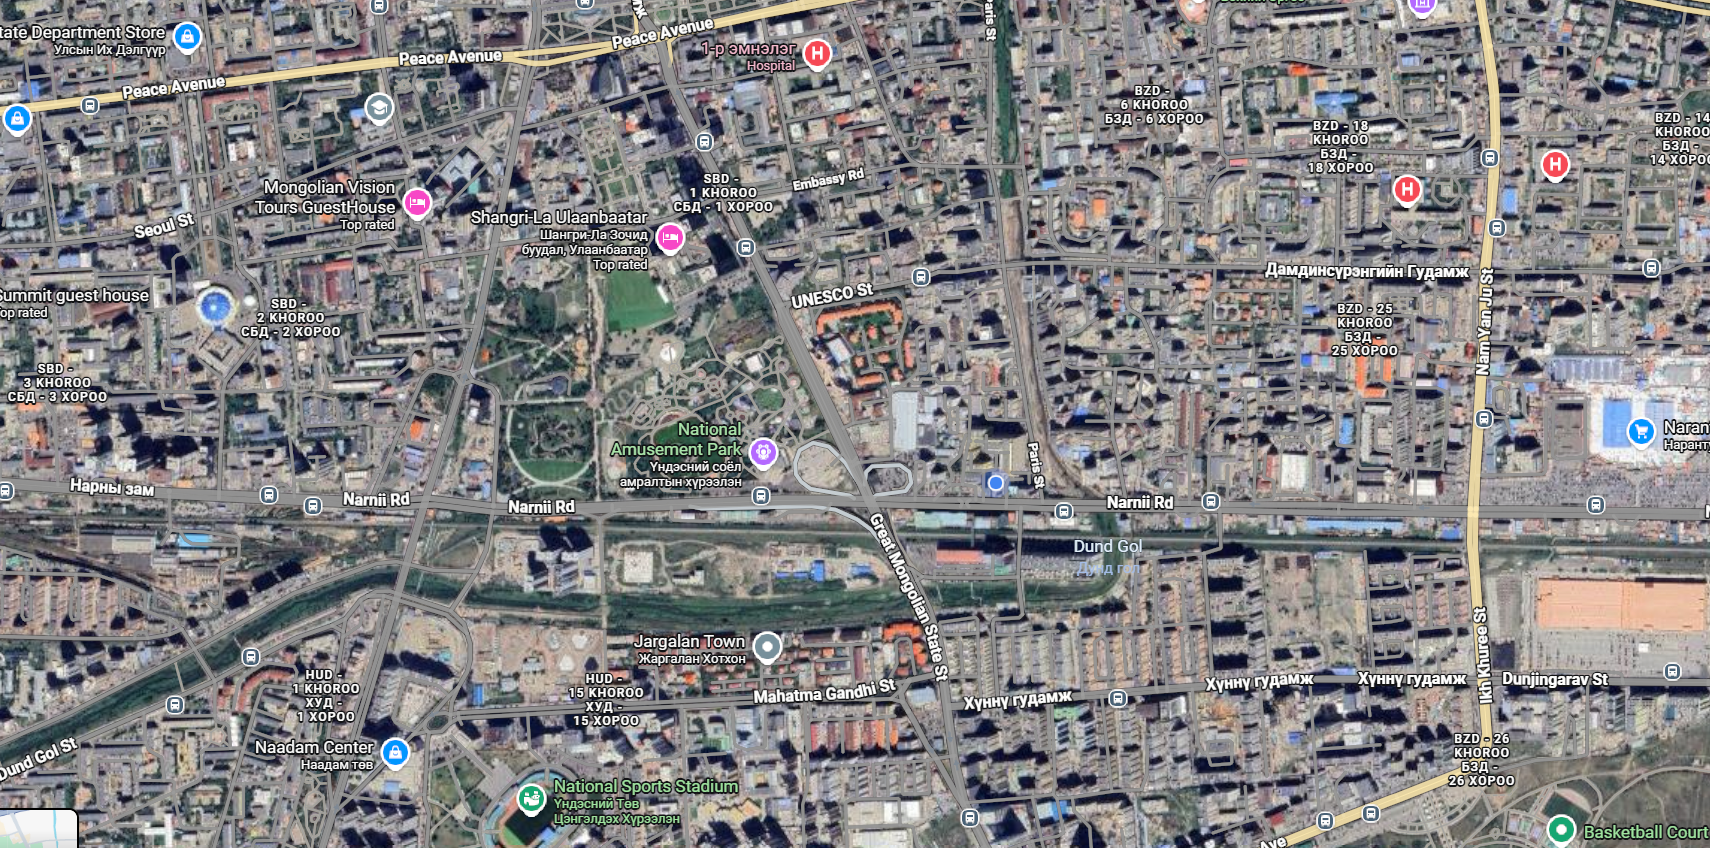
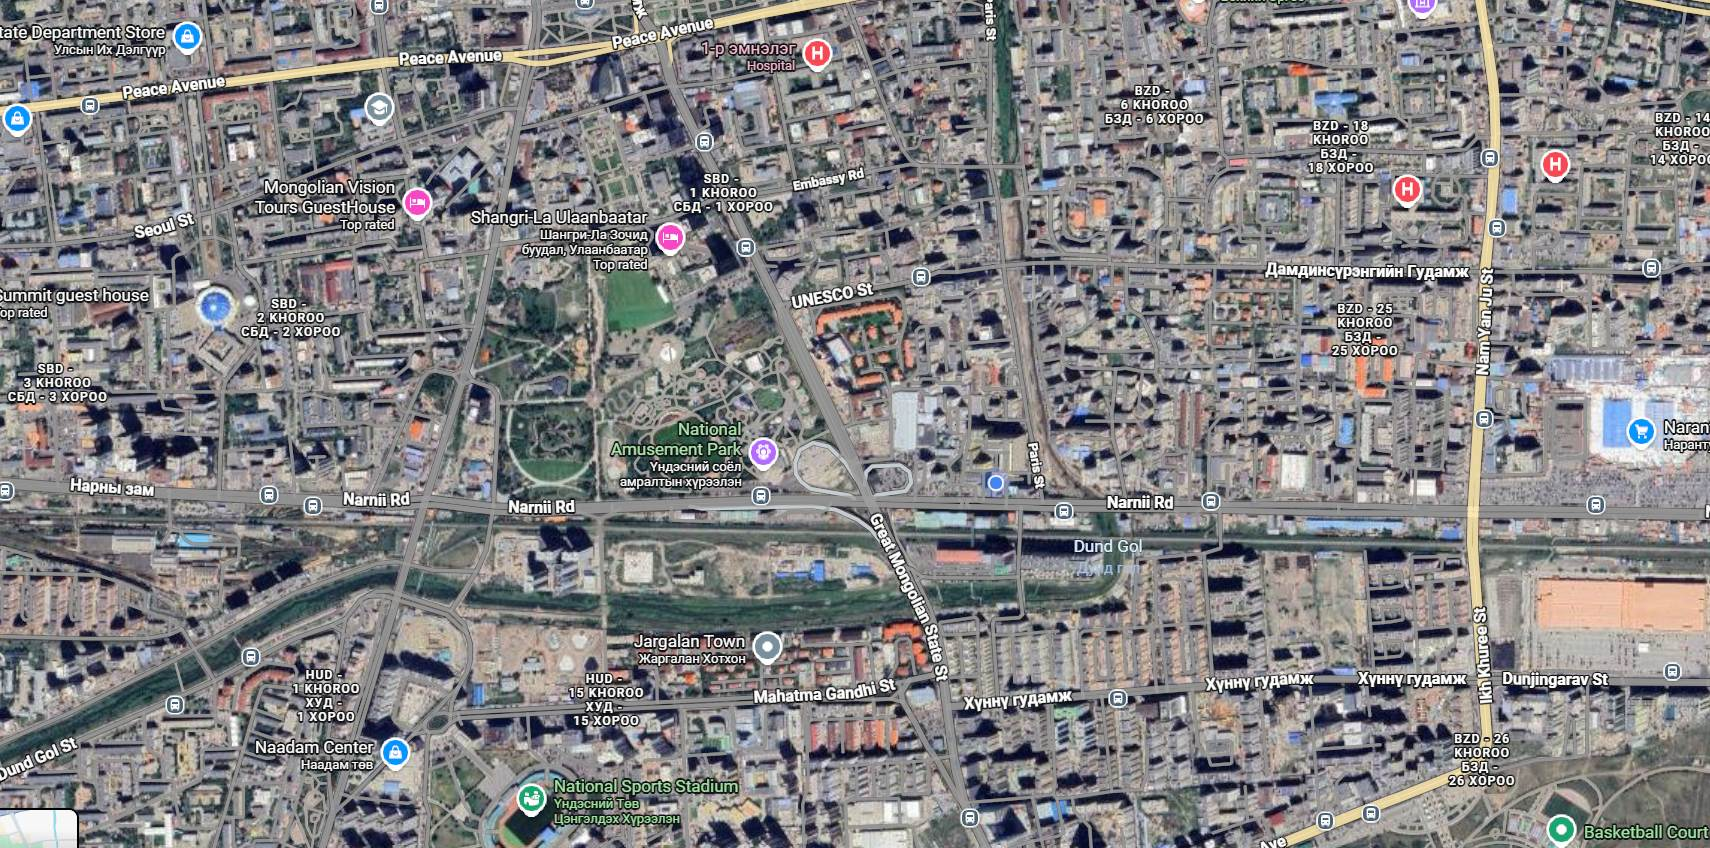
Polish responsive UI

diff --git a/app/globals.css b/app/globals.css
@@ -85,7 +85,8 @@ h1, h2, h3, h4 { font-family: var(--font-heading); }
     overflow-y: visible;
     align-items: flex-start !important;
     justify-content: flex-start !important;
-    padding-bottom: 80px; /* room for bottom nav + breathing space */
+    /* room for bottom nav + iOS home indicator + breathing space */
+    padding-bottom: calc(80px + env(safe-area-inset-bottom, 0px));
   }
   .panel-inner {
     height: auto !important;
@@ -394,10 +395,12 @@ h1, h2, h3, h4 { font-family: var(--font-heading); }
 @media (prefers-reduced-motion: reduce) { * { animation: none !important; } }
 
 /* ════════════════════════════════════════════════════════════════
-   MOBILE RESPONSIVE  ≤ 768px
-   All rules are INSIDE this block. Desktop (> 768px) is untouched.
+   MOBILE RESPONSIVE  ≤ 767px
+   All rules are INSIDE this block. Kept on the same 767px line as the
+   deck→scroll switch above and JS isMobile (< 768) so no width — e.g.
+   iPad portrait at exactly 768px — gets a mix of deck + mobile rules.
    ════════════════════════════════════════════════════════════════ */
-@media (max-width: 768px) {
+@media (max-width: 767px) {
 
   /* Prevent horizontal scroll on every page */
   html, body { overflow-x: hidden; }
@@ -409,37 +412,25 @@ h1, h2, h3, h4 { font-family: var(--font-heading); }
   .glow-orb { z-index: 0; }
   .panel-inner { position: relative; z-index: 1; }
 
-  /* ── HERO ── */
-  /* Both CTA buttons: always full-width stacked column */
-  .hero-btns { flex-direction: column !important; gap: 10px; }
-  .hero-btns > * { width: 100% !important; box-sizing: border-box; }
+  /* ── NAV ── */
+  /* In scroll mode content passes under the fixed header — give it a
+     backdrop so text doesn't collide with the logo/hamburger. Deck mode
+     (≥768px) never scrolls under the nav, so it stays transparent there. */
+  .app-nav {
+    background: linear-gradient(180deg, rgba(5,5,16,0.92) 0%, rgba(5,5,16,0.78) 100%);
+    backdrop-filter: blur(18px);
+    -webkit-backdrop-filter: blur(18px);
+    border-bottom: 1px solid rgba(111,99,255,0.12);
+  }
 
   /* ── TEAM / EXPERIENCE ── */
   /* Hero photo card: stretch to full container width */
   .team-hero-card { max-width: 100% !important; }
 
-  /* ── VISION / VALUES ── */
-  /* Value cards (01/02/03): the horizontal swipe carousel let cards 02/03
-     run off the right edge, so force a full-width vertical stack instead. */
-  .values-scroll {
-    flex-direction: column !important;
-    overflow-x: visible !important;
-    scroll-snap-type: none !important;
-    margin-left: 0 !important;
-    margin-right: 0 !important;
-    padding-left: 0 !important;
-    padding-right: 0 !important;
-  }
-  .values-scroll .values-card {
-    width: 100% !important;
-    scroll-snap-align: none !important;
-  }
-
   /* ── PACKAGES ── */
   /* InfoPanel contact cards: truncate was clipping labels/values (e.g.
      "Бидэнтэй хо…") — let text wrap instead of being cut off. */
   .info-panel-grid p {
-    font-size: 11px;
     line-height: 1.35;
     white-space: normal;
     overflow: visible;
@@ -453,6 +444,6 @@ h1, h2, h3, h4 { font-family: var(--font-heading); }
 
 /* ── Very small phones (≤ 480px) ── */
 @media (max-width: 480px) {
-  /* Tighten section horizontal padding */
-  .panel-inner { padding-left: clamp(16px, 5vw, 28px); padding-right: clamp(16px, 5vw, 28px); }
+  /* Tighten section horizontal padding (.self-padded sections pad their own children) */
+  .panel-inner:not(.self-padded) { padding-left: clamp(16px, 5vw, 28px); padding-right: clamp(16px, 5vw, 28px); }
 }

diff --git a/app/data/siteContent.ts b/app/data/siteContent.ts
@@ -119,20 +119,21 @@ export const packagePlans: PackagePlan[] = [
     ],
   },
   {
-    name: 'Pixel Basic',
+    name: 'Pixel Core',
     price: '',
+    featured: true,
     features: [
       { label: 'Календарчилсан төлөвлөгөө', value: '1' },
       { label: 'Зах зээлийн судалгаа',      value: '1' },
-      { label: 'Рийл бичлэг',               value: '3' },
-      { label: 'FB IG постер',               value: '9' },
+      { label: 'Рийл бичлэг',               value: '10' },
+      { label: 'FB IG постер',               value: '15' },
       { label: 'Fb Cover, Profile',          value: '1' },
       { label: 'Тайлан',                     value: '1' },
-      { label: 'Зураг авалт',               value: '—' },
-      { label: 'Грйфик дазайны ажил',      value: '—' },
+      { label: 'Зураг авалт',               value: '1' },
+      { label: 'Грйфик дазайны ажил',      value: '10' },
       { label: 'Chat bot',                   value: '1' },
-      { label: 'Web сайт',                   value: '—' },
-      { label: 'App',                        value: '—' },
+      { label: 'Web сайт',                   value: '1' },
+      { label: 'App',                        value: '1' },
     ],
   },
   {
@@ -187,21 +188,20 @@ export const packagePlans: PackagePlan[] = [
     ],
   },
   {
-    name: 'Pixel Core',
+    name: 'Pixel Basic',
     price: '',
-    featured: true,
     features: [
       { label: 'Календарчилсан төлөвлөгөө', value: '1' },
       { label: 'Зах зээлийн судалгаа',      value: '1' },
-      { label: 'Рийл бичлэг',               value: '10' },
-      { label: 'FB IG постер',               value: '15' },
+      { label: 'Рийл бичлэг',               value: '3' },
+      { label: 'FB IG постер',               value: '9' },
       { label: 'Fb Cover, Profile',          value: '1' },
       { label: 'Тайлан',                     value: '1' },
-      { label: 'Зураг авалт',               value: '1' },
-      { label: 'Грйфик дазайны ажил',      value: '10' },
+      { label: 'Зураг авалт',               value: '—' },
+      { label: 'Грйфик дазайны ажил',      value: '—' },
       { label: 'Chat bot',                   value: '1' },
-      { label: 'Web сайт',                   value: '1' },
-      { label: 'App',                        value: '1' },
+      { label: 'Web сайт',                   value: '—' },
+      { label: 'App',                        value: '—' },
     ],
   },
   {

diff --git a/app/components/sections/WorkSection.tsx b/app/components/sections/WorkSection.tsx
@@ -34,7 +34,7 @@ const PROJECTS = [
     ],
     accent: '#15a59a',
     mockupGrad: 'linear-gradient(135deg, #0d4f4a 0%, #0a3d55 50%, #05050d 100%)',
-    img: '/portfolio/gymhub.png',
+    img: '/portfolio/gymhub.jpg',
   },
   {
     num: '05',
@@ -51,7 +51,7 @@ const PROJECTS = [
     ],
     accent: '#6f63ff',
     mockupGrad: 'linear-gradient(135deg, #1a1060 0%, #2d1b6e 50%, #05050d 100%)',
-    img: '/portfolio/novaMind.png',
+    img: '/portfolio/novaMind.jpg',
   },
   {
     num: '06',
@@ -68,7 +68,7 @@ const PROJECTS = [
     ],
     accent: '#ff4fd8',
     mockupGrad: 'linear-gradient(135deg, #4d0035 0%, #7a0055 50%, #05050d 100%)',
-    img: '/portfolio/bluebell_flower.png',
+    img: '/portfolio/bluebell_flower.jpg',
   },
 ]
 
@@ -357,7 +357,9 @@ export default function WorkSection({ active, sectionRef }: WorkSectionProps) {
         </div>
       </div>
 
-      <div className="panel-inner w-full flex flex-col md:flex-row md:h-full">
+      {/* self-padded: children carry their own horizontal padding — opts out of the
+          ≤480px .panel-inner padding override in globals.css (would double up here) */}
+      <div className="panel-inner self-padded w-full flex flex-col md:flex-row md:h-full">
 
         {/* ── LEFT: project info ── */}
         <div
@@ -380,10 +382,12 @@ export default function WorkSection({ active, sectionRef }: WorkSectionProps) {
         </div>
 
         {/* ── RIGHT: overlapping mockup cards ── */}
+        {/* touch-action:none is deck-mode (md+) behavior only — on mobile normal-scroll
+            it would block the page from scrolling when a swipe starts on the mockup */}
         <div
           ref={rightColRef}
-          className="w-full aspect-[16/10] md:aspect-auto md:flex-1 md:h-full lg:flex-1 relative overflow-hidden"
-          style={{ overscrollBehavior: 'none', touchAction: 'none' }}
+          className="w-full aspect-[16/10] md:aspect-auto md:flex-1 md:h-full lg:flex-1 relative overflow-hidden
+                     md:touch-none md:overscroll-none"
         >
           {PROJECTS.map((proj, i) => (
             <div

diff --git a/app/components/sections/VisionSection.tsx b/app/components/sections/VisionSection.tsx
@@ -137,17 +137,14 @@ export default function VisionSection({ active, sectionRef }: VisionSectionProps
               </span>
             </div>
 
-            {/* Horizontal swipe carousel below 768px (full mobile-width column with room to
-                spare from md: up, where the original vertical stack is restored) */}
-            <div className="values-scroll flex flex-nowrap overflow-x-auto snap-x snap-mandatory no-scrollbar gap-3
-                            -mx-[clamp(28px,6vw,96px)] px-[clamp(28px,6vw,96px)]
-                            md:flex-col md:overflow-visible md:snap-none md:mx-0 md:px-0">
+            {/* Full-width vertical stack on every breakpoint — the old horizontal swipe
+                carousel let cards 02/03 run off the right edge on mobile */}
+            <div className="flex flex-col gap-3">
               {VALUES.map((v, i) => (
                 <div
                   key={i}
                   data-anim
-                  className="values-card shrink-0 w-[78vw] snap-center md:w-auto md:shrink
-                            glass-card rounded-2xl px-5 py-5 group cursor-default relative overflow-hidden"
+                  className="glass-card rounded-2xl px-5 py-5 group cursor-default relative overflow-hidden"
                   style={{ borderLeft: `2px solid ${v.color}55` }}
                 >
                   <div className="absolute inset-0 opacity-0 group-hover:opacity-100 pointer-events-none"

diff --git a/app/layout.tsx b/app/layout.tsx
@@ -1,4 +1,4 @@
-import type { Metadata } from 'next'
+import type { Metadata, Viewport } from 'next'
 import { Montserrat, Inter } from 'next/font/google'
 import './globals.css'
 import Providers from './components/Providers'
@@ -18,6 +18,14 @@ const inter = Inter({
 export const metadata: Metadata = {
   title: 'PIXEL — Танилцуулга',
   description: 'PIXEL Social Media Mongolia — Зөв мессеж · Зөв зах зээл',
+}
+
+// viewport-fit=cover lets the fixed bottom nav extend under the iPhone home
+// indicator; env(safe-area-inset-bottom) paddings keep its content clear of it.
+export const viewport: Viewport = {
+  width: 'device-width',
+  initialScale: 1,
+  viewportFit: 'cover',
 }
 
 export default function RootLayout({ children }: { children: React.ReactNode }) {

diff --git a/app/components/sections/HeroSection.tsx b/app/components/sections/HeroSection.tsx
@@ -143,11 +143,13 @@ export default function HeroSection({ active, ready, sectionRef }: HeroSectionPr
             />
           </p>
 
-          <div className="hero-btns flex flex-col xs:flex-row items-stretch xs:items-center gap-3 xs:gap-4 mt-8">
-            <button className="w-full xs:w-auto rounded-xl bg-[linear-gradient(135deg,#6f63ff,#ff4fd8)] px-6 py-3 text-sm font-bold text-white shadow-[0_12px_30px_rgba(111,99,255,0.28)] hover:opacity-90 transition-opacity">
+          {/* Full-width stacked column on mobile (<768px), inline row from md — same
+              767/768 line as the deck→scroll switch */}
+          <div className="hero-btns flex flex-col md:flex-row items-stretch md:items-center gap-2.5 md:gap-4 mt-8">
+            <button className="w-full md:w-auto rounded-xl bg-[linear-gradient(135deg,#6f63ff,#ff4fd8)] px-6 py-3 text-sm font-bold text-white shadow-[0_12px_30px_rgba(111,99,255,0.28)] hover:opacity-90 transition-opacity">
               {mn ? 'ХОЛБОО БАРИХ' : 'GET IN TOUCH'}
             </button>
-            <button className="w-full xs:w-auto rounded-xl border border-line bg-transparent px-6 py-3 text-sm font-bold text-pxwhite hover:border-hot hover:bg-white/5 transition-colors">
+            <button className="w-full md:w-auto rounded-xl border border-line bg-transparent px-6 py-3 text-sm font-bold text-pxwhite hover:border-hot hover:bg-white/5 transition-colors">
               {mn ? 'БАГЦ' : 'PACKAGES'}
             </button>
           </div>

diff --git a/app/page.tsx b/app/page.tsx
@@ -165,7 +165,11 @@ export default function Page() {
     <>
       {!loadingDone && <LoadingScreen onDone={() => setLoadingDone(true)} />}
 
-      <Orb hue={0} hoverIntensity={0.3} rotateOnHover backgroundColor="#000000" className="site-orb" />
+      {/* CSS already hides .site-orb below 768px, but display:none still leaves a live
+          WebGL context + RAF loop — skip mounting entirely on mobile */}
+      {!isMobile && (
+        <Orb hue={0} hoverIntensity={0.3} rotateOnHover backgroundColor="#000000" className="site-orb" />
+      )}
 
       {/* Vignette */}
       <div className="fixed inset-0 z-[1] pointer-events-none [background:radial-gradient(120%_90%_at_78%_18%,transparent_30%,rgba(0,0,0,0.8)_100%)]" />

diff --git a/app/components/NavDots.tsx b/app/components/NavDots.tsx
@@ -39,6 +39,7 @@ export default function NavDots({ cur, vizCur = cur, go }: NavDotsProps) {
           WebkitBackdropFilter: 'blur(24px)',
           borderTop: '1px solid rgba(111,99,255,0.14)',
           minHeight: 56,
+          paddingBottom: 'env(safe-area-inset-bottom, 0px)',
         }}
       >
         {Array.from({ length: N }, (_, i) => {
@@ -75,8 +76,8 @@ export default function NavDots({ cur, vizCur = cur, go }: NavDotsProps) {
               />
               {/* Label */}
               <span
-                className="text-[7.5px] font-bold uppercase tracking-[0.08em] transition-colors duration-[250ms] leading-none"
-                style={{ color: active ? '#ff4fd8' : 'rgba(184,194,221,0.3)' }}
+                className="text-[9px] font-bold uppercase tracking-[0.04em] transition-colors duration-[250ms] leading-[1.15] px-0.5 text-center"
+                style={{ color: active ? '#ff4fd8' : 'rgba(184,194,221,0.42)' }}
               >
                 {names[i]}
               </span>

diff --git a/app/components/sections/PackagesSection.tsx b/app/components/sections/PackagesSection.tsx
@@ -119,7 +119,7 @@ export default function PackagesSection({ active, sectionRef }: PackagesSectionP
         <PricingToggle
           page={page}
           onChange={setPage}
-          labels={mn ? ['1', '2'] : ['Package 1', 'Package 2']}
+          labels={mn ? ['Онцго - 1', 'Бусад - 2'] : ['Package 1', 'Package 2']}
         />
 
         {/* Cards: swipeable carousel on small mobile, 2-up grid from 430px (tablet too), 4-col paginated on desktop */}
@@ -138,7 +138,7 @@ export default function PackagesSection({ active, sectionRef }: PackagesSectionP
                 plan={plan}
                 globalIndex={globalIndex}
                 Icon={PLAN_ICONS[globalIndex % PLAN_ICONS.length]}
-                badgeLabel={mn ? 'Хамгийн түгээмэл' : 'Most Popular'}
+                badgeLabel={mn ? 'Хамгийн онцго' : 'Most Popular'}
               />
             )
           })}

diff --git a/app/components/sections/ContactSection.tsx b/app/components/sections/ContactSection.tsx
@@ -116,6 +116,8 @@ export default function ContactSection({ active, sectionRef }: ContactSectionPro
                 <img
                   src="/map-location.jpg"
                   alt={mn ? 'Байршил' : 'Location'}
+                  loading="lazy"
+                  decoding="async"
                   className="absolute inset-0 w-full h-full object-cover"
                 />
                 <div className="absolute inset-0"